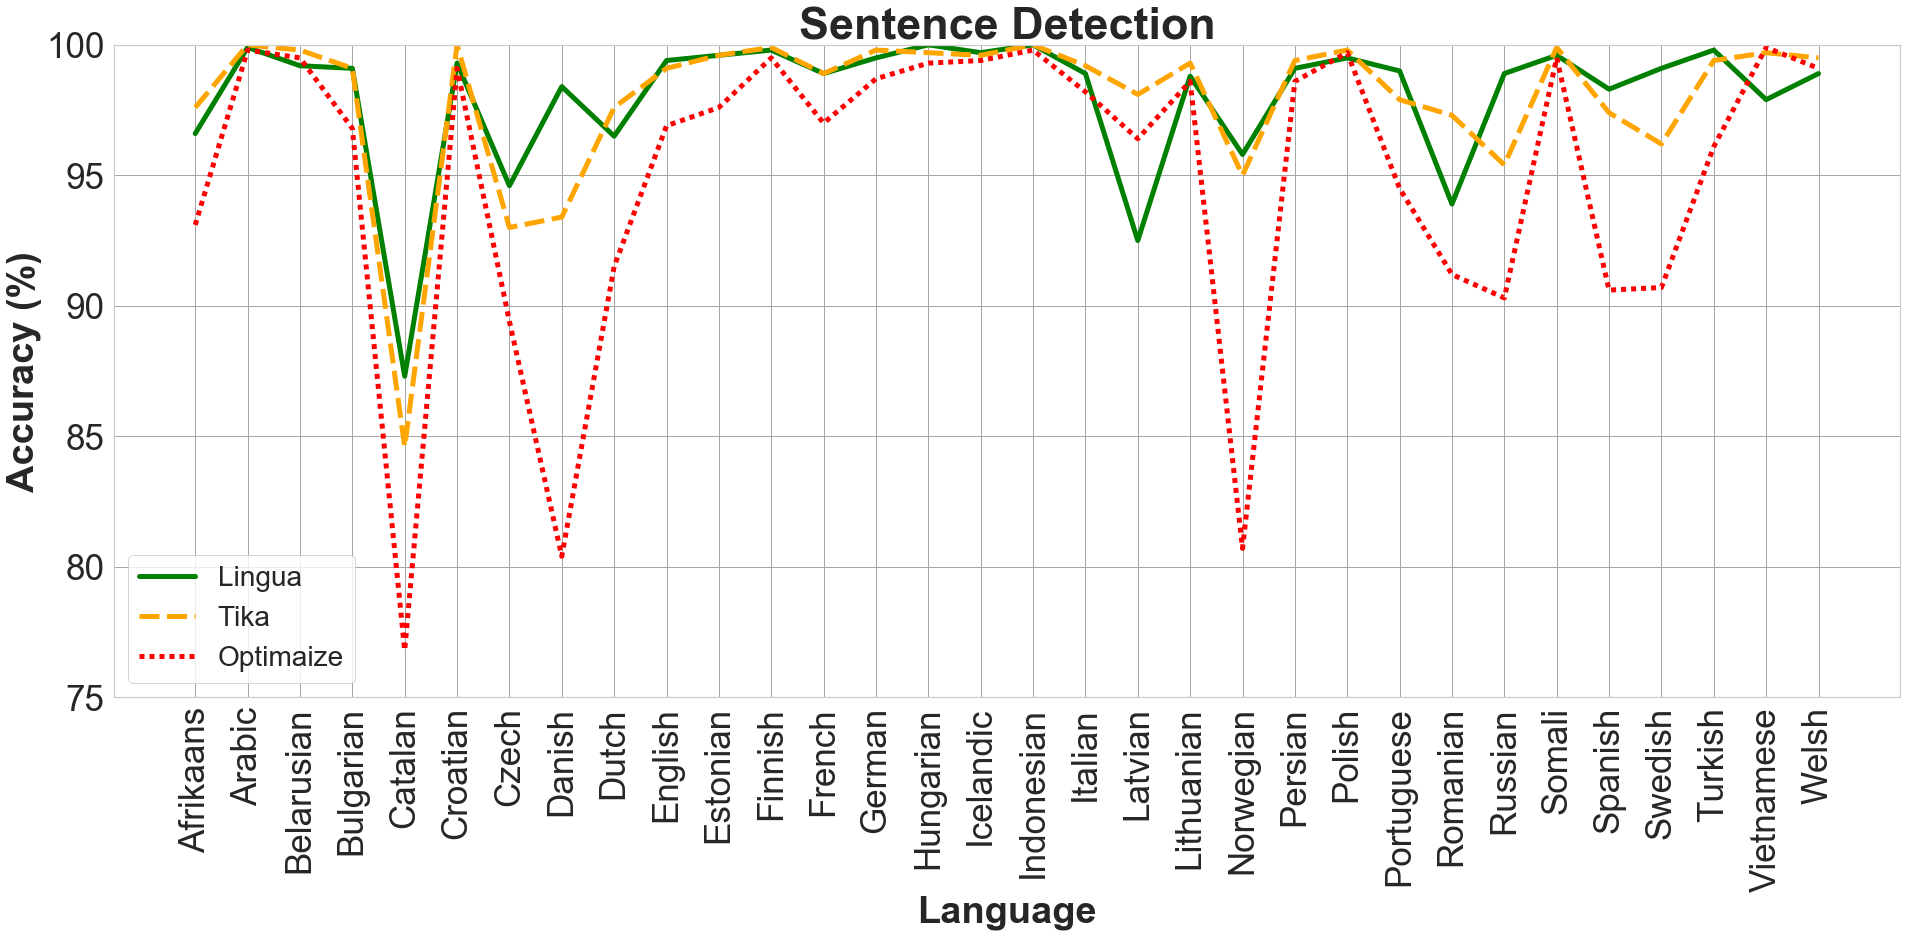
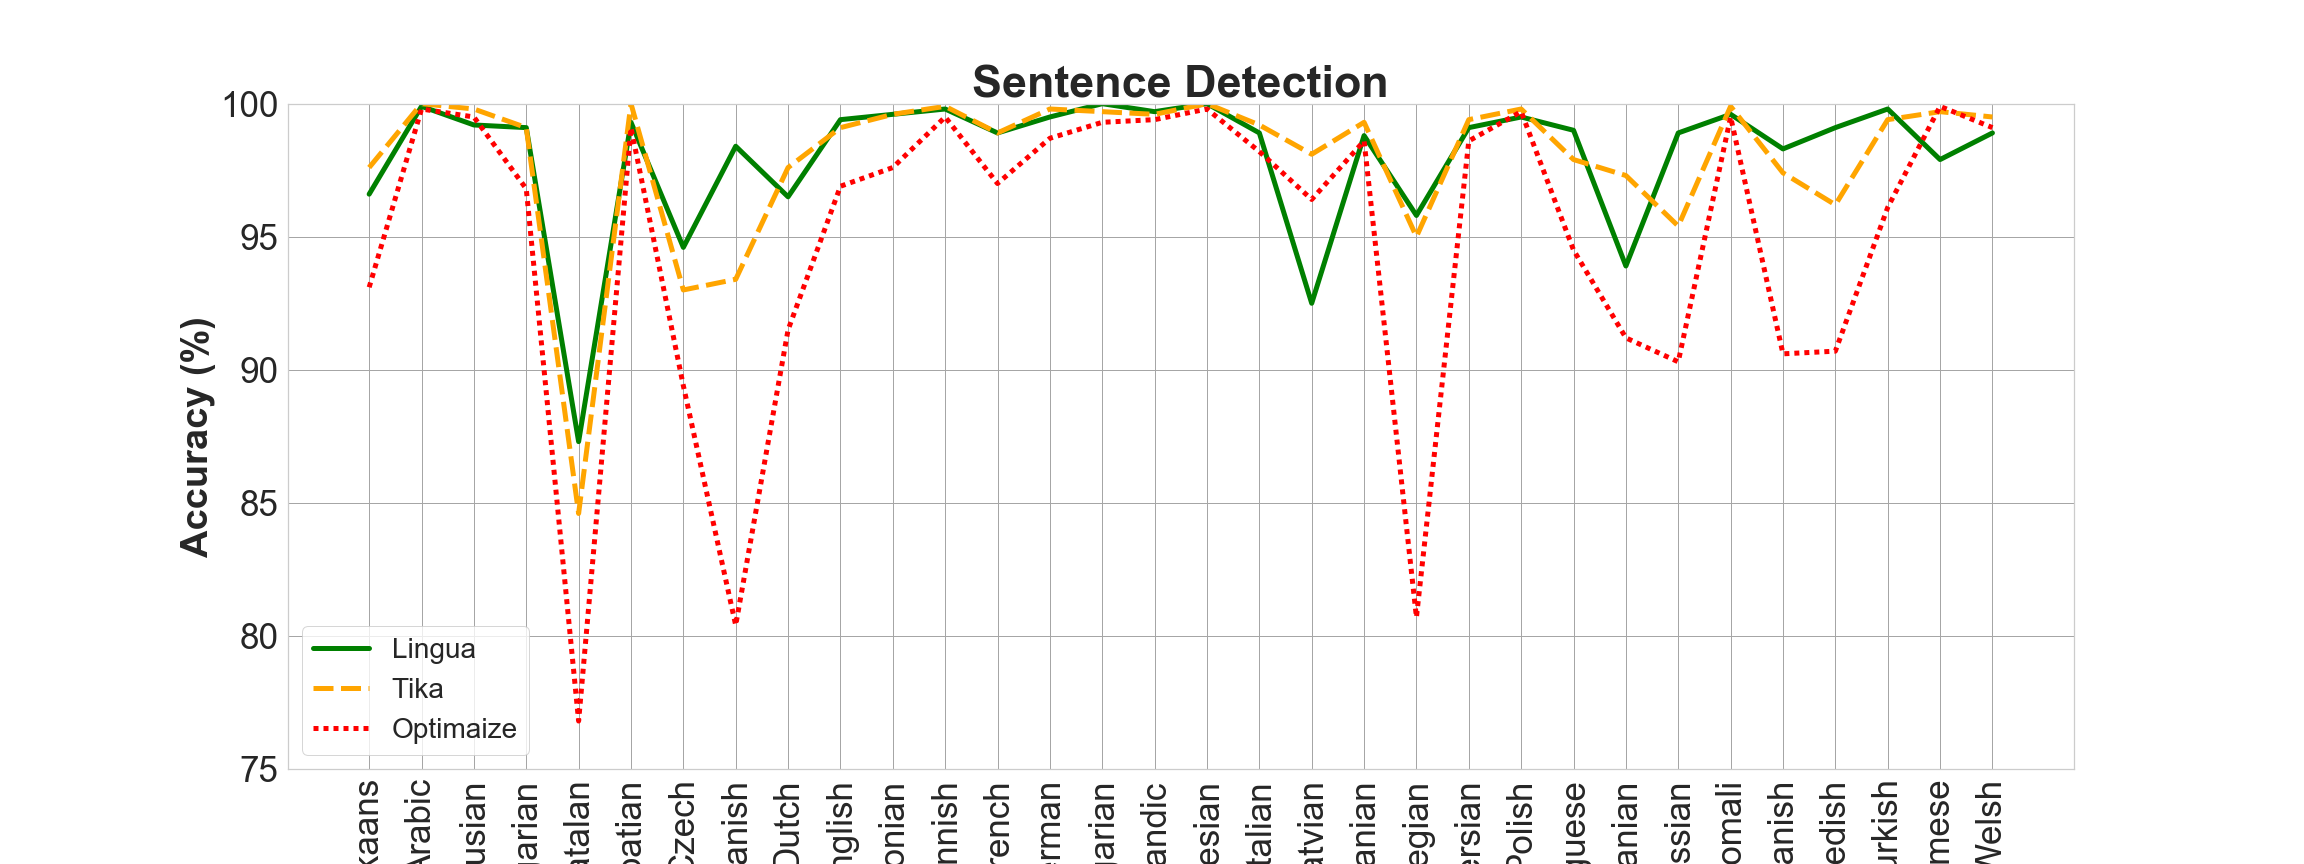
Add Gradle Python plugin and Python script for drawing accuracy plots

diff --git a/src/python/draw_accuracy_plots.py b/src/python/draw_accuracy_plots.py
@@ -1,0 +1,137 @@
+# Copyright 2018-2019 Peter M. Stahl pemistahl@googlemail.com
+#
+# Licensed under the Apache License, Version 2.0 (the "License");
+# you may not use this file except in compliance with the License.
+# You may obtain a copy of the License at
+#
+# http://www.apache.org/licenses/LICENSE-2.0
+#
+# Unless required by applicable law or agreed to in writing, software
+# distributed under the License is distributed on an "AS IS" BASIS,
+# WITHOUT WARRANTIES OR CONDITIONS OF ANY KIND, either express or implied.
+# See the License for the specific language governing permissions and
+# limitations under the License.
+
+import matplotlib.pyplot as plt
+import seaborn as sns
+import pandas as pd
+
+
+def create_lineplot(data, columns, title, ylim, filename):
+    filtered_data = data.loc[:, columns]
+
+    plt.figure(figsize=(32,12))
+    plt.title(title, fontsize=45, fontweight='bold')
+    plt.xticks(rotation=90, fontsize=35)
+    plt.yticks(fontsize=35)
+    plt.grid(color='#A6A6A6')
+
+    ax = sns.lineplot(data=filtered_data, linewidth=5, palette=['green', 'orange', 'red'])
+    ax.set_ylim(ylim)
+    ax.legend(labels=['Lingua', 'Tika', 'Optimaize'], fontsize=28, loc='lower left')
+    ax.set_xlabel('Language', fontsize=38, fontweight='bold')
+    ax.set_ylabel('Accuracy (%)', fontsize=38, fontweight='bold')
+
+    plt.savefig('images/plots/' + filename, dpi=72)
+
+
+def create_boxplot(data, columns, title, ylim, filename):
+    filtered_data = data.loc[:, columns]
+
+    plt.figure(figsize=(32,12))
+    plt.title(title, fontsize=45, fontweight='bold')
+    plt.xticks(fontsize=35)
+    plt.yticks(fontsize=35)
+    plt.grid(color='#A6A6A6')
+
+    ax = sns.boxplot(data=filtered_data, linewidth=5, palette=['red', 'orange', 'green'])
+    ax.set_ylim(ylim)
+    ax.set_xlabel('Classifier', fontsize=38, fontweight='bold')
+    ax.set_ylabel('Accuracy (%)', fontsize=38, fontweight='bold')
+    ax.set_xticklabels(['Optimaize', 'Tika', 'Lingua'])
+
+    plt.savefig('images/plots/' + filename, dpi=72)
+
+
+sns.set()
+sns.set_style('whitegrid')
+
+accuracy_values_data_frame = pd.read_csv(
+    filepath_or_buffer='accuracy-reports/aggregated-accuracy-values.csv',
+    delim_whitespace=True
+).set_index('language')
+
+accuracy_values_data_frame = accuracy_values_data_frame.reindex(
+    sorted(accuracy_values_data_frame.columns),
+    axis=1
+)
+
+# SINGLE WORD DETECTION ACCURACY #
+create_lineplot(
+    data=accuracy_values_data_frame,
+    columns=['single-words-lingua', 'single-words-tika', 'single-words-optimaize'],
+    title='Single Word Detection',
+    ylim=[0,100],
+    filename='lineplot-singlewords.png'
+)
+
+create_boxplot(
+    data=accuracy_values_data_frame,
+    columns=['single-words-optimaize', 'single-words-tika', 'single-words-lingua'],
+    title='Single Word Detection',
+    ylim=[0,100],
+    filename='boxplot-singlewords.png'
+)
+
+# WORD PAIR DETECTION ACCURACY #
+create_lineplot(
+    data=accuracy_values_data_frame,
+    columns=['word-pairs-lingua', 'word-pairs-tika', 'word-pairs-optimaize'],
+    title='Word Pair Detection',
+    ylim=[0,100],
+    filename='lineplot-wordpairs.png'
+)
+
+create_boxplot(
+    data=accuracy_values_data_frame,
+    columns=['word-pairs-optimaize', 'word-pairs-tika', 'word-pairs-lingua'],
+    title='Word Pair Detection',
+    ylim=[0,100],
+    filename='boxplot-wordpairs.png'
+)
+
+# SENTENCE DETECTION ACCURACY #
+create_lineplot(
+    data=accuracy_values_data_frame,
+    columns=['sentences-lingua', 'sentences-tika', 'sentences-optimaize'],
+    title='Sentence Detection',
+    ylim=[75,100],
+    filename='lineplot-sentences.png'
+)
+
+create_boxplot(
+    data=accuracy_values_data_frame,
+    columns=['sentences-optimaize', 'sentences-tika', 'sentences-lingua'],
+    title='Sentence Detection',
+    ylim=[80,100],
+    filename='boxplot-sentences.png'
+)
+
+# AVERAGE DETECTION ACCURACY #
+create_lineplot(
+    data=accuracy_values_data_frame,
+    columns=['average-lingua', 'average-tika', 'average-optimaize'],
+    title='Average Detection',
+    ylim=[30,100],
+    filename='lineplot-average.png'
+)
+
+create_boxplot(
+    data=accuracy_values_data_frame,
+    columns=['average-optimaize', 'average-tika', 'average-lingua'],
+    title='Average Detection',
+    ylim=[30,100],
+    filename='boxplot-average.png'
+)
+
+print("All plots created successfully!")
